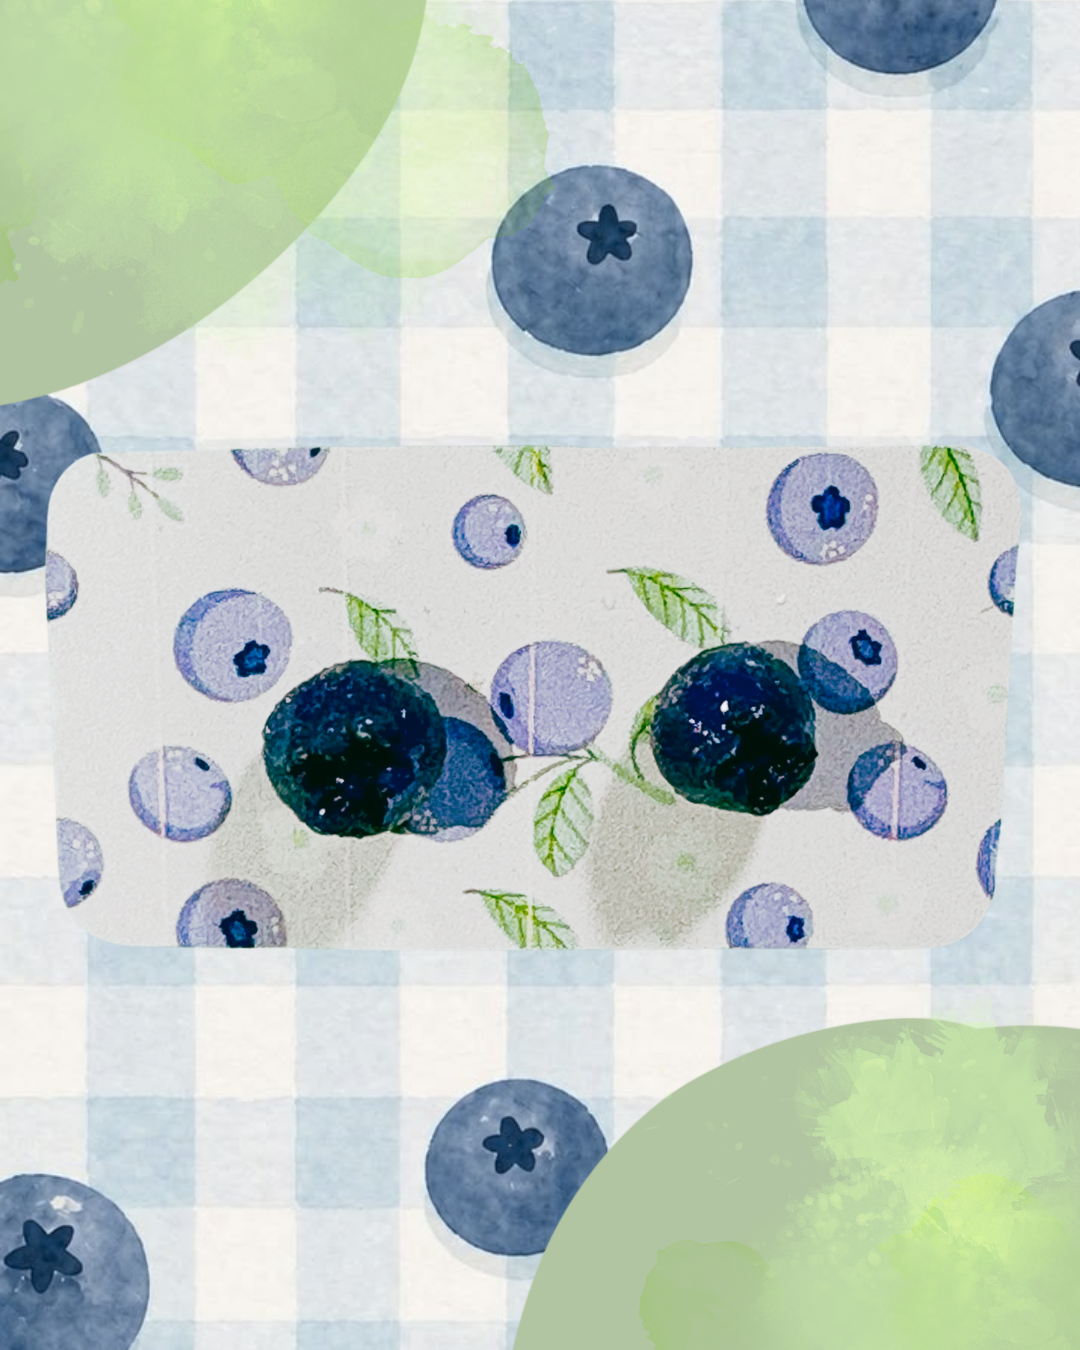
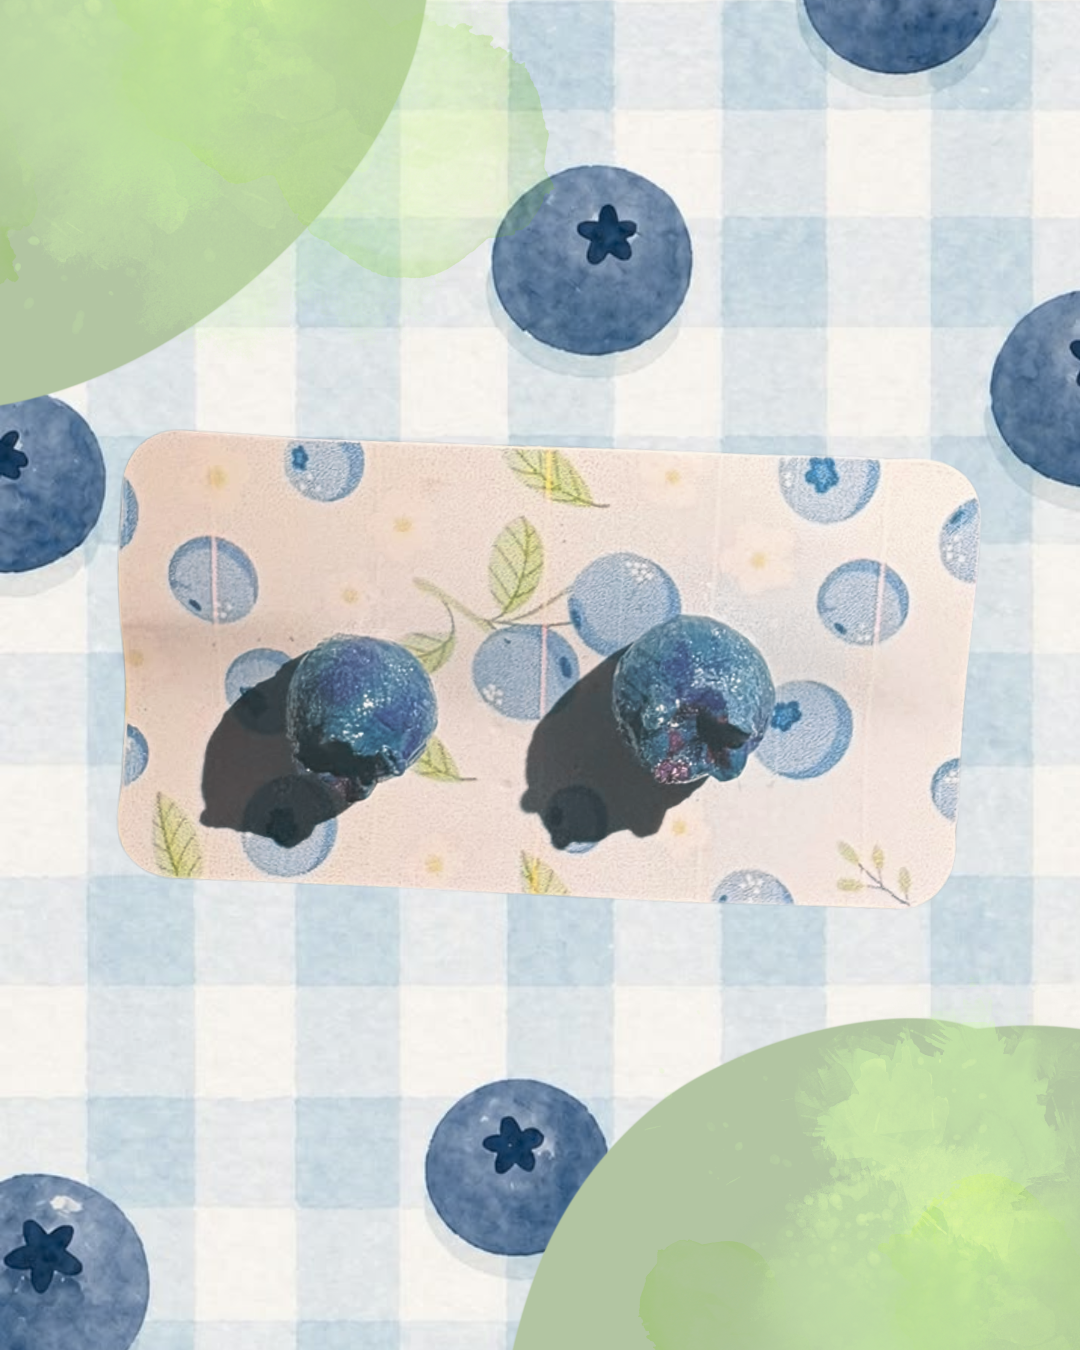
Agregando aretes 101 a Totoro 2 y nueva coleccion Kiki 2 con imagen 100

Changed region(s): [[0.0306, 0.3111, 0.9472, 0.7156]]

diff --git a/index.html b/index.html
@@ -731,6 +731,33 @@
                     </select><a href="https://wa.me/51987676127?text=Hola%20Atelier%20Gala,%20me%20interesan%20los%20Aretes%20Totoro%20del%20Bosque" target="_blank" class="btn-whatsapp">Consultar Pieza</a>
                 </div>
             </div>
+            <div class="tarjeta-minimalista" data-categoria="aretes">
+                <div class="caja-foto"><img src="101.png" alt="Aretes Colgantes Estrellita y Susuwatari" class="foto-producto"></div>
+                <div class="detalles-producto">
+                    <h3>Aretes Colgantes Estrellita y Susuwatari</h3><p class="categoria">Edición Anime</p><p class="descripcion">Un diseño delicado y alegre con una estrellita y tiernos Susuwatari, perfecto para un look encantador.</p>
+                    <div class="precio">S/ 15.00</div>                    <select class="material-select" style="width: 100%; margin-bottom: 10px;">
+                        <option value="acero">Acero Inoxidable (S/ 12.00)</option>
+                        <option value="plata">Plata 925 (+ S/ 15.00)</option>
+                    </select><a href="https://wa.me/51987676127?text=Hola%20Atelier%20Gala,%20me%20interesa%20la%20pieza%20Aretes%20Colgantes%20Estrellita%20y%20Susuwatari" target="_blank" class="btn-whatsapp">Consultar Pieza</a>
+                </div>
+            </div>
+        </div>
+
+        <!-- ==========================================
+             SUBTÍTULO: COLECCIÓN KIKI 2
+             ========================================== -->
+        <h2 class="titulo-coleccion">Colección Kiki 2</h2>
+        <div class="grid-productos">
+            <div class="tarjeta-minimalista" data-categoria="aretes">
+                <div class="caja-foto"><img src="100.png" alt="Aretes Colgantes Gatito Jiji con Lazo" class="foto-producto"></div>
+                <div class="detalles-producto">
+                    <h3>Aretes Colgantes Gatito Jiji con Lazo</h3><p class="categoria">Edición Anime</p><p class="descripcion">Una pieza adorable inspirada en Jiji, con un lazo delicado y un toque de magia para tus orejas.</p>
+                    <div class="precio">S/ 15.00</div>                    <select class="material-select" style="width: 100%; margin-bottom: 10px;">
+                        <option value="acero">Acero Inoxidable (S/ 12.00)</option>
+                        <option value="plata">Plata 925 (+ S/ 15.00)</option>
+                    </select><a href="https://wa.me/51987676127?text=Hola%20Atelier%20Gala,%20me%20interesa%20la%20pieza%20Aretes%20Colgantes%20Gatito%20Jiji%20con%20Lazo" target="_blank" class="btn-whatsapp">Consultar Pieza</a>
+                </div>
+            </div>
         </div>
 
         <!-- ==========================================
